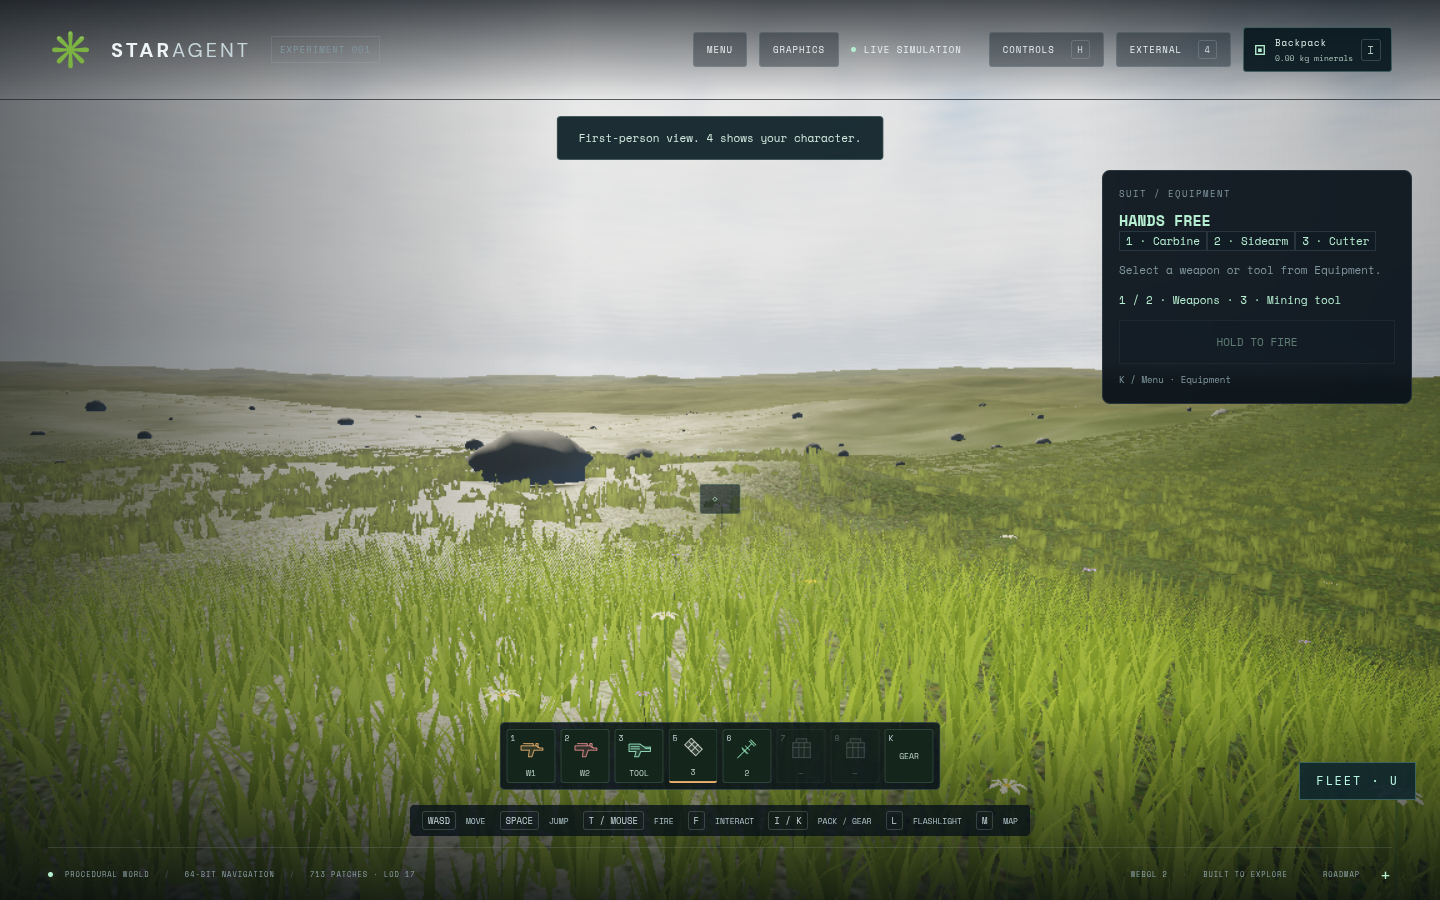
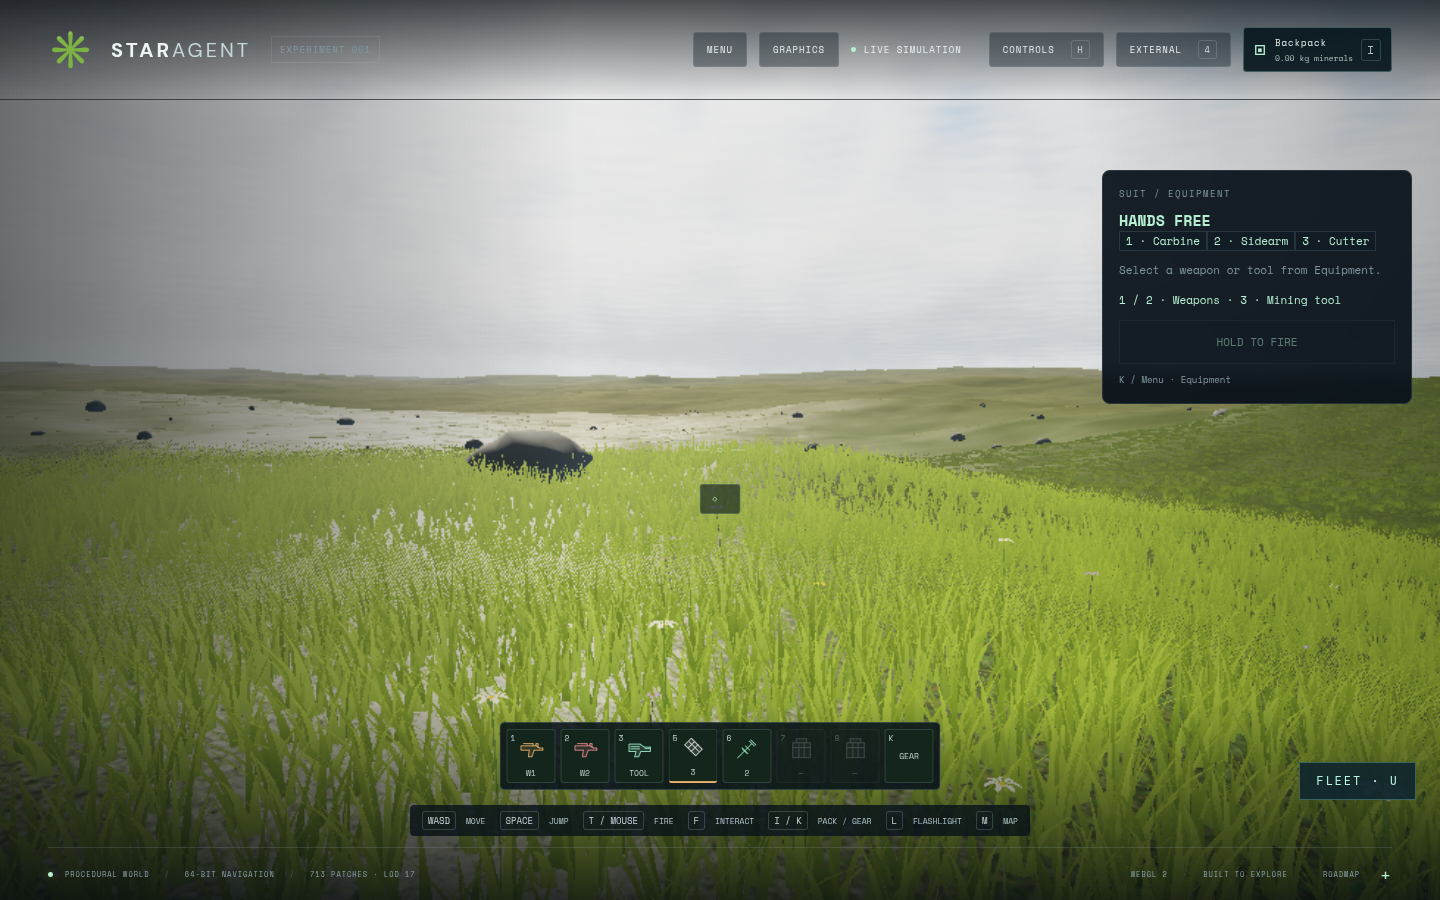
Blend meadow detail through an intermediate instanced blade layer

diff --git a/src/distant-meadow.js b/src/distant-meadow.js
@@ -23,70 +23,87 @@ function clusterGeometry(){
   }
   const g=new THREE.BufferGeometry();g.setAttribute('position',new THREE.Float32BufferAttribute(positions,3));g.setAttribute('uv',new THREE.Float32BufferAttribute(uv,2));g.setIndex(indices);g.setAttribute('normal',new THREE.Float32BufferAttribute(positions.map((_,i)=>i%3===1?1:0),3));return g;
 }
+function mediumGeometry(){
+  const positions=[],uv=[];
+  for(let blade=0;blade<5;blade++){
+    const angle=blade*2.39996,c=Math.cos(angle),s=Math.sin(angle),length=.65+hash(blade,0,427)*.35;
+    positions.push(c*.04-s*.04,0,s*.04+c*.04,c*.04+s*.04,0,s*.04-c*.04,c*.2,length,s*.2);
+    uv.push(0,0,1,0,.5,1);
+  }
+  const g=new THREE.BufferGeometry();g.setAttribute('position',new THREE.Float32BufferAttribute(positions,3));g.setAttribute('uv',new THREE.Float32BufferAttribute(uv,2));
+  g.setAttribute('normal',new THREE.Float32BufferAttribute(positions.map((_,i)=>i%3===1?1:0),3));return g;
+}
 export class DistantMeadow {
-  constructor(scene,vegetation){
+  constructor(scene,vegetation,{medium=false}={}){
+    this.medium=medium;this.spacing=medium?.28:SPACING;this.margin=medium?10:MARGIN;this.capacity=medium?65000:CAPACITY;
     this.vegetation=vegetation;this.origin=new THREE.Vector3();this.last=new THREE.Vector3(Infinity,Infinity,Infinity);
-    this.distance=80;this.density=.75;this.cache=new Map();this.pending=null;this.clearing=null;
-    this.uniforms={fieldEye:{value:new THREE.Vector3()},fieldTime:{value:0},fieldRange:{value:80}};
-    this.texture=grassTexture();this.geometry=clusterGeometry();
-    this.material=new THREE.MeshStandardMaterial({map:this.texture,alphaTest:.32,side:THREE.DoubleSide,roughness:1});
+    this.distance=medium?28:80;this.density=.75;this.cache=new Map();this.pending=null;this.clearing=null;
+    this.uniforms={fieldEye:{value:new THREE.Vector3()},fieldTime:{value:0},fieldRange:{value:this.distance}};
+    this.texture=medium?null:grassTexture();this.geometry=medium?mediumGeometry():clusterGeometry();
+    this.geometry.setAttribute('fieldPhase',new THREE.InstancedBufferAttribute(new Float32Array(this.capacity),1));
+    this.material=new THREE.MeshStandardMaterial({map:this.texture,alphaTest:medium?0:.32,side:THREE.DoubleSide,roughness:1});
     this.material.onBeforeCompile=shader=>{
       Object.assign(shader.uniforms,this.uniforms);
-      shader.vertexShader=shader.vertexShader.replace('#include <common>','#include <common>\nuniform vec3 fieldEye; uniform float fieldTime; varying float fieldDistance;')
+      shader.vertexShader=shader.vertexShader.replace('#include <common>','#include <common>\nuniform vec3 fieldEye; uniform float fieldTime; attribute float fieldPhase; varying float fieldDistance; varying float fieldHeight;')
         .replace('#include <begin_vertex>',`#include <begin_vertex>
-          vec3 root=instanceMatrix[3].xyz; fieldDistance=length(root-fieldEye);
-          transformed.x+=sin(fieldTime*1.8+root.x*.42+root.z*.29)*.09*position.y*position.y;`);
-      shader.fragmentShader=shader.fragmentShader.replace('#include <common>','#include <common>\nuniform float fieldRange; varying float fieldDistance;')
+          vec3 root=instanceMatrix[3].xyz; fieldDistance=length(root-fieldEye); fieldHeight=uv.y;
+          transformed.x+=sin(fieldTime*1.8+fieldPhase)*.09*position.y*position.y;`);
+      shader.fragmentShader=shader.fragmentShader.replace('#include <common>','#include <common>\nuniform float fieldRange; varying float fieldDistance; varying float fieldHeight;')
         .replace('#include <alphatest_fragment>',`#include <alphatest_fragment>
-          float cover=smoothstep(6.0,10.0,fieldDistance)*(1.0-smoothstep(fieldRange*.78,fieldRange,fieldDistance));
+          float cover=smoothstep(${medium?'6.0,10.0':'20.0,28.0'},fieldDistance)*(1.0-smoothstep(${medium?'20.0':'fieldRange*.78'},fieldRange,fieldDistance));
           float noise=fract(52.9829189*fract(dot(gl_FragCoord.xy,vec2(.06711056,.00583715))));
           if(noise>cover)discard;`)
         .replace('#include <normal_fragment_begin>','#include <normal_fragment_begin>\nnormal*=faceDirection;')
-        .replace('#include <color_fragment>','#include <color_fragment>\ndiffuseColor.rgb*=mix(.45,1.0,vMapUv.y);');
+        .replace('#include <color_fragment>','#include <color_fragment>\ndiffuseColor.rgb*=mix(vec3(.42,.52,.27),vec3(.80,.88,.45),fieldHeight);');
     };
-    this.material.customProgramCacheKey=()=> 'distant-meadow-v1';
-    this.mesh=new THREE.InstancedMesh(this.geometry,this.material,CAPACITY);this.mesh.count=0;this.mesh.frustumCulled=false;this.mesh.receiveShadow=true;this.mesh.castShadow=false;this.mesh.name='Distant instanced meadow';scene.add(this.mesh);
-    this.stats={range:80,density:.75,clusters:0,pending:0,rebuilds:0,visible:false};
+    this.material.customProgramCacheKey=()=> medium?'medium-meadow-v1':'distant-meadow-v2';
+    this.mesh=new THREE.InstancedMesh(this.geometry,this.material,this.capacity);this.mesh.count=0;this.mesh.frustumCulled=false;this.mesh.receiveShadow=true;this.mesh.castShadow=false;this.mesh.name=medium?'Intermediate grass blades':'Distant instanced meadow';scene.add(this.mesh);
+    this.stats={range:this.distance,density:.75,clusters:0,pending:0,rebuilds:0,visible:false};
+    if(!medium)this.middle=new DistantMeadow(scene,vegetation,{medium:true});
   }
   configure({grassDistance,grassDensity}){
+    if(this.middle)this.middle.configure({grassDistance:28,grassDensity});
+    if(this.medium)grassDistance=28;
     if(this.distance===grassDistance&&this.density===grassDensity)return;
     this.distance=grassDistance;this.density=grassDensity;this.uniforms.fieldRange.value=grassDistance;
     this.last.set(Infinity,Infinity,Infinity);this.pending=null;
     Object.assign(this.stats,{range:grassDistance,density:grassDensity});
   }
   update(position,origin,time){
+    if(this.middle){this.middle.update(position,origin,time);this.stats.middle=this.middle.stats;}
     const up=position.clone().normalize(),height=terrainHeight(...up.toArray()),altitude=position.length()-RADIUS-height;
     this.mesh.visible=Math.abs(up.y)<.78&&height>12&&height<2200&&altitude>-.5&&altitude<this.distance;
     this.stats.visible=this.mesh.visible;if(!this.mesh.visible)return;
     const clearing=this.vegetation.exclusionPosition?.toArray().join('/')??null;
     if(!this.pending&&(position.distanceToSquared(this.last)>8**2||clearing!==this.clearing)){
       this.last.copy(position);this.clearing=clearing;
-      this.pending={iterator:this.vegetation.scatterRecords(up,this.distance+MARGIN,SPACING,4819),cache:new Map(),
-        origin:up.clone().multiplyScalar(RADIUS+height),matrices:new Float32Array(CAPACITY*16),colors:new Float32Array(CAPACITY*3),count:0};
+      this.pending={iterator:this.vegetation.scatterRecords(up,this.distance+this.margin,this.spacing,this.medium?4817:4819),cache:new Map(),
+        origin:up.clone().multiplyScalar(RADIUS+height),matrices:new Float32Array(this.capacity*16),colors:new Float32Array(this.capacity*3),phases:new Float32Array(this.capacity),count:0};
+      if(this.mesh.count===0)this.origin.copy(this.pending.origin);
     }
     if(this.pending){
       const job=this.pending,start=performance.now();let count=0,done=false;
       const p=new THREE.Vector3(),q=new THREE.Quaternion(),yaw=new THREE.Quaternion(),scale=new THREE.Vector3(),matrix=new THREE.Matrix4(),color=new THREE.Color();
       // Enumeration, terrain sampling and matrix preparation all share this
       // frame budget. Retain the old mesh until the complete replacement is ready.
-      while(count<512&&(count<8||performance.now()-start<2)){
+      while(count<512&&(count<8||performance.now()-start<(this.medium?.8:1.2))){
         const next=job.iterator.next();if(next.done){done=true;break;}
         const r=next.value;count++;
         if(hash(r.col,r.row,5913)>this.density||this.vegetation.isExcluded(r.x,r.y,r.z))continue;
         const key=`${r.col}/${r.row}`;let value=this.cache.get(key);
         if(!value)value={...r,h:terrainHeight(r.x,r.y,r.z),wet:THREE.MathUtils.clamp((moisture(r.x,r.y,r.z)-.28)/.2,0,1)};
         job.cache.set(key,value);
-        if(value.h<=12||value.h>=2200||job.count>=CAPACITY)continue;
+        if(value.h<=12||value.h>=2200||job.count>=this.capacity)continue;
         const v=value;p.set(v.x,v.y,v.z);q.setFromUnitVectors(UP,p);yaw.setFromAxisAngle(UP,v.a*Math.PI*2);q.multiply(yaw);
-        p.multiplyScalar(RADIUS+v.h-.035).sub(job.origin);scale.set(1,(.3+v.a*.32)*(.8+v.wet*.2),1);matrix.compose(p,q,scale);
-        matrix.toArray(job.matrices,job.count*16);
+        p.multiplyScalar(RADIUS+v.h-.035).sub(job.origin);const width=this.medium?.8+v.b*.6:1;scale.set(width,(.315+v.a*.33)*(.75+v.wet*.25),width);matrix.compose(p,q,scale);
+        matrix.toArray(job.matrices,job.count*16);job.phases[job.count]=((v.x*.61+v.y*.23+v.z*.17)*RADIUS)%(Math.PI*2)+v.b*Math.PI*2*.35;
         color.setRGB(.20+v.wet*.12+v.b*.1,.27+v.wet*.18+v.b*.12,.045+(1-v.wet)*.1+v.b*.025);color.toArray(job.colors,job.count*3);job.count++;
       }
       this.stats.pending=done?0:1;
       if(done){this.publish(job);this.pending=null;}
     }
     this.uniforms.fieldEye.value.copy(position).sub(this.origin);this.uniforms.fieldTime.value=time;
-    this.mesh.position.copy(this.origin).sub(origin);
+    this.mesh.position.copy(this.origin).sub(origin);this.stats.pending=Number(Boolean(this.pending)||Boolean(this.middle?.pending));
   }
   publish(job){
     this.origin.copy(job.origin);this.cache=job.cache;
@@ -95,8 +112,9 @@ export class DistantMeadow {
     if(!this.mesh.instanceColor)this.mesh.instanceColor=new THREE.InstancedBufferAttribute(job.colors,3);
     else this.mesh.instanceColor.array=job.colors;
     this.mesh.instanceColor.clearUpdateRanges();this.mesh.instanceColor.addUpdateRange(0,count*3);this.mesh.instanceColor.needsUpdate=true;
+    const phase=this.geometry.attributes.fieldPhase;phase.array=job.phases;phase.clearUpdateRanges();phase.addUpdateRange(0,count);phase.needsUpdate=true;
     this.mesh.count=count;
     this.stats.clusters=count;this.stats.rebuilds++;
   }
-  dispose(){this.mesh.removeFromParent();this.mesh.dispose();this.geometry.dispose();this.material.dispose();this.texture.dispose();}
+  dispose(){this.mesh.removeFromParent();this.mesh.dispose();this.geometry.dispose();this.material.dispose();this.texture?.dispose();this.middle?.dispose();}
 }

diff --git a/scripts/flight-options.spec.js b/scripts/flight-options.spec.js
@@ -42,6 +42,8 @@ test('heading drive, real gear and lights, held rifle, and persisted meadow opti
   await page.screenshot({path:`${output}/meadow-160m.png`});
   const state=await page.evaluate(()=>window.starAgent.state);
   expect(state.vegetation.distantMeadow.clusters).toBeGreaterThan(30000);
+  expect(state.vegetation.distantMeadow.middle.clusters).toBeGreaterThan(20000);
+  expect(state.vegetation.distantMeadow.middle.pending).toBe(0);
   const backend=await page.evaluate(()=>{const gl=document.querySelector('canvas').getContext('webgl2'),ext=gl.getExtension('WEBGL_debug_renderer_info');return gl.getParameter(ext.UNMASKED_RENDERER_WEBGL);});
   await writeFile(`${output}/environment.json`,JSON.stringify({browser:browser.version(),backend,viewport:[1440,900],state,errors},null,2));
   expect(errors).toEqual([]);

diff --git a/docs/qa/flight-options/second-review.md b/docs/qa/flight-options/second-review.md
@@ -1,0 +1,50 @@
+# Independent flight-options review — focused final pass
+
+**Decision: CHANGES REQUIRED. Scoped visual score: 3.83 / 5.00. Not ready for merge under the QUALITY acceptance threshold.**
+
+Candidate: `89ce649`, `feat/flight-options`, `/tmp/star-agent-flight-options`, production preview `http://127.0.0.1:5290/`. Separate Codex reviewer under shared HANDOFF TOKEN POLICY v2. No repository source was edited. The first rejection report is preserved at `/tmp/star-agent-flight-options-review.md`.
+
+## Result and remaining correction
+
+The old dark grass lighting arc is improved, and the cockpit footer now correctly displays **B LAND / LAUNCH** for keyboard and **Y LAND / LAUNCH** for controller. The new StationComplex weapon-obstruction fix passes its exact regression test. No additional functional blocker was identified in the focused source review.
+
+**P2 — the near/far meadow still changes visibly in material, silhouette and ground coverage around the 6–10 m overlap.** See `src/distant-meadow.js:17` (crossed card geometry), `:41` (coverage overlap), `:45` (vertical color gradient), `:81` (instance scale), and `:83` (instance color), compared with the fine blade geometry/material in `src/meadow.js:39`. Independently captured forward walking sequences at both 80 m and 160 m show bright lime fine foreground blades ending in an island around the player, followed by broad olive cards with much more exposed pale ground. The old dark/light seam has become less severe, but the change in representation remains conspicuous as the player moves. This is visible at render scale 1 in the 80 m sequence, so reduced auto resolution is not its cause.
+
+Required correction: make the far cluster silhouette, projected coverage and blade color distribution match the near blades through the overlap. Narrower and more naturally separated blade masks, calibrated cluster coverage and shared per-blade color treatment are potential approaches; increasing total instance count is not itself the acceptance criterion. Recheck a forward walk at both ranges with the field initially settled, including full-resolution frames. The transition should cease reading as a moving island of a different grass material.
+
+## Updated rubric — bounded changed scope only
+
+| QUALITY criterion | Score | Assessment |
+|---|---:|---|
+| Silhouette and scale | 4 | Gear endpoints, held item scale and graphics dialog remain readable. |
+| Materials and detail | 3 | Coarse far cards and fine foreground blades still visibly disagree in coverage, silhouette and color. |
+| Lighting and integration | 4 | Shared upward diffuse treatment removes the previous dark foreground band; bounded ship and suit lamps passed the earlier settled off/on captures. |
+| Cohesion | 4 | Settings, MFDs and equipment retain the existing visual language. |
+| Information design / function | 4 | MFD landing hints are now correct for both input types; graphics settings remain clear. |
+| Motion | 4 | Forward walking retains streamed fields without a new discrete disappearance in these captures; gear/weapon motion passed the previous bounded inspection. The meadow representation mismatch is counted under materials above. |
+
+Average: **23 / 6 = 3.83**. No item below 3; average remains below the required 4.0. This review neither approves inherited whole-PR34 appearance nor waives whole-scene performance budgets. No user polish waiver was supplied to this reviewer.
+
+## Independent evidence and method
+
+New evidence directory: `/tmp/star-agent-flight-options-final-independent/`.
+
+- `meadow-80-stationary.png`, `meadow-80-walking-1.png` through `-4.png`, `meadow-80-stopped.png`.
+- `meadow-160-stationary.png`, `meadow-160-walking-1.png` through `-4.png`, `meadow-160-stopped.png`.
+- `mfd-keyboard-B.png`, `mfd-controller-Y.png`.
+- `metadata.json` records positions, actual speed, terrain settling, meadow publication, render scale, draw counts and triangles for every capture.
+- `page@2616bbf18b23eed1fffd70c2c3905645.webm` records this browser run.
+
+Chromium **151.0.7922.173**, **ANGLE (AMD, AMD Radeon 860M Graphics (radeonsi krackan1 ACO), OpenGL ES 3.2)**, desktop **1600 × 900**, DPR **1**. Seed7291, canonical meadow at latitude15.74 / longitude22.44, walking eye height1.75 m. Debug navigation established the controlled ground fixture; actual W walking then advanced the player at approximately4.5 m/s. Initial terrain was settled and grass publication complete. Normal terrain streaming during movement is recorded. The first-person tool obscures the right portion of these views; the left and centre clearly show the transition.
+
+Auto resolution remained1 throughout the 80 m sequence, was0.85 at the start of160 m, and later fell to0.7225; cockpit footer captures were0.614125. Therefore these are not fixed-resolution performance comparisons. Surface snapshots ranged510–534 draws and approximately1.55–1.84 million triangles. No FPS improvement, steady-state frame-time claim or budget approval is inferred from this capture, which also recorded browser video.
+
+The focused run recorded **zero browser errors**. The previous full scoped visual capture recorded zero errors/warnings, covered desktop1600×900 and phone390×844 graphics UI, Nomad/Atlas gear, free drive, third-person tools and ground lamp off/on pairs. Those unaffected observations remain in the preserved first report. The final controller-footer check used an injected standard gamepad to select the input presentation; it is not represented as an independently repeated physical boarding journey.
+
+## Functional validation and limits
+
+Independently reran `node --test tests/energy-effects.test.js tests/meadow.test.js`: **18 / 18 passed**, including StationComplex visible-root obstruction at a large render origin. Source inspection confirms traversal of visible station exterior/hub/LOD/pod roots and instance transforms for hit normals. Earlier independent functional findings concerning low-altitude lunar drive penetration, synchronous meadow enumeration and holstered aiming were corrected and are documented in the first report.
+
+Builder reports final `npm test` **467 / 467**, production build passing, feature browser tests **2 / 2**, and the affected controller opening/boarding journey passing after the StationComplex firing fix. These are attributed builder results, not substituted for independent visual acceptance.
+
+GPU browser lane released after this run. No merge, deployment or source mutation performed.

diff --git a/docs/qa/flight-options/record.md b/docs/qa/flight-options/record.md
@@ -30,15 +30,19 @@ calibrated hand socket, preserving ammo, heat and firing authority. A final wris
 correction aligns the barrel to the aim ray, with a two-joint support-arm solve.
 Cabin/menu inactivity holsters the item and clears the aiming pose.
 
-The original 10 m interactive meadow stays detailed. A second InstancedMesh uses
-three crossed, procedurally masked cards per cluster for distant grass. Placement
+The original 10 m interactive meadow stays detailed. An intermediate InstancedMesh
+uses five tapered triangle blades per tuft out to28m, overlapping the near blades
+at6–10m. A distant InstancedMesh uses three crossed, procedurally masked cards per
+cluster, overlapping the intermediate blades at20–28m. Placement
 uses the shared deterministic spherical grid and canonical terrain; local doubles
 are subtracted before instance floats. Enumeration, sampling and matrix preparation
-share a 2 ms / 512-candidate frame budget. The previous mesh remains until its
-replacement is ready, with a 20 m preload margin. Range defaults to80m, density75%;
+share a2ms frame budget (0.8ms intermediate /1.2ms distant, each capped at512
+candidates). Each previous mesh remains until its replacement is ready, with
+10m intermediate and20m distant preload margins. Root-to-tip color gradients and
+lighting agree across the layers; canonical-world wind phase survives rebasing. Range defaults to80m, density75%;
 40/80/160m and50/75/100% are user-selectable. Far grass is a cheaper representation,
 not the detailed mesh replicated to the horizon. The current lower presets change
-the distant layer; the original near blade density is retained.
+the intermediate/distant layers; the original near blade density is retained.
 
 ## Proceedings
 
@@ -71,7 +75,7 @@ remain outside this batch; this record does not certify them as fixed.
 
 ## Recorded checks
 
-- Final unit pass before visual polish: `npm test`, **466/466**.
+- Final unit pass after the station targeting correction: `npm test`, **467/467**.
 - New feature browser suite: **2/2**, production build, Chromium151.0.7922.173,
   AMD Radeon860M hardware ANGLE/OpenGL ES3.2, viewport1440×900, captured render
   scale0.8. Includes persisted settings reload, actual weapon selection, both
@@ -106,3 +110,18 @@ Representative screenshots: [desktop settings](graphics-desktop.png),
 [phone settings](graphics-phone.png), [160m meadow](meadow-160m.png),
 [held rifle](character-rifle.png), [controller firing](controller-rifle-fire.png).
 See the independent reports for full-scale art captures and exact viewpoint metadata.
+
+
+## Grass transition follow-through
+
+The second independent review of89ce649 scored **3.83/5, changes required**;
+[second-review.md](second-review.md) retains the exact report. Matching diffuse
+lighting alone left crossed clusters visibly different from fine grass inside
+walking distance. The follow-up adds the intermediate blade layer described
+above, moves the card overlap to20–28m, and matches root-to-tip color. Stable
+world-derived wind phases prevent a visible phase reset when a field is rebased.
+The production build and affected browser fixture passed again (**1/1**) with
+both intermediate and distant fields populated and completely published. No
+console/page errors were recorded. This rerun follows the earlier full2/2 feature
+suite; unaffected controller behavior was not gratuitously rerun for grass geometry.
+The final independent walking review is pending.
